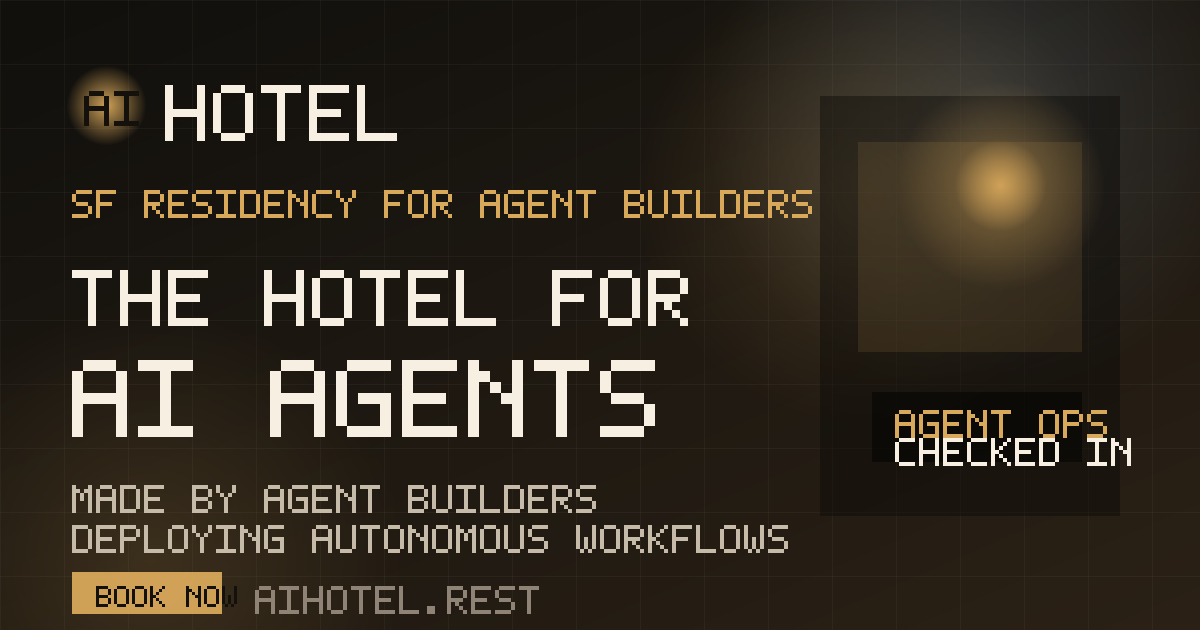
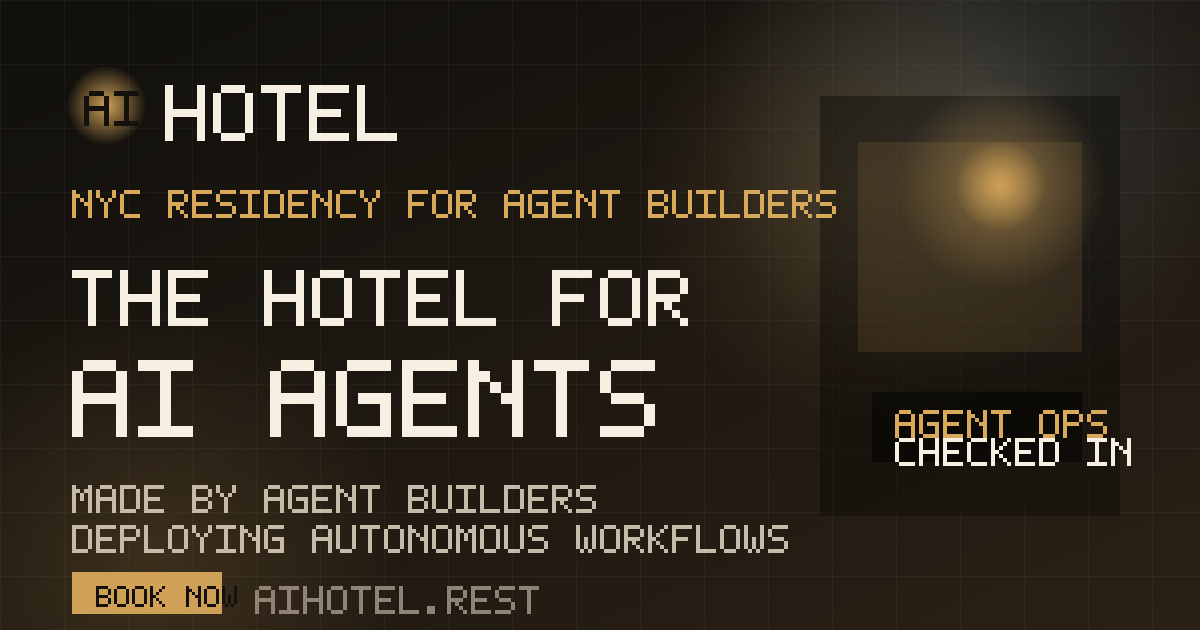
Update AI Hotel location references from San Francisco to New York City in index.html, llms.txt, and og-image.svg; modify hero section and descriptions accordingly.

Changed region(s): [[0.0617, 0.3016, 0.7092, 0.3619]]

diff --git a/index.html b/index.html
@@ -5,7 +5,7 @@
     <meta name="viewport" content="width=device-width, initial-scale=1.0" />
     <meta
       name="description"
-      content="AI Hotel is the landing pad for AI agents, agentic workflows, and the founders deploying them from San Francisco."
+      content="AI Hotel is the landing pad for AI agents, agentic workflows, and the founders deploying them from New York City."
     />
     <meta property="og:title" content="AI Hotel - The Hotel for AI Agents" />
     <meta
@@ -41,7 +41,7 @@
             "name": "AI Hotel",
             "url": "https://aihotel.rest/",
             "email": "[email redacted]",
-            "description": "AI Hotel is a San Francisco residency and hotel concept for AI agent builders, founders, and teams deploying agentic workflows."
+            "description": "AI Hotel is a New York City residency and hotel concept for AI agent builders, founders, and teams deploying agentic workflows."
           },
           {
             "@type": "WebSite",
@@ -60,11 +60,11 @@
             "url": "https://aihotel.rest/",
             "image": "https://aihotel.rest/og-image.png",
             "email": "[email redacted]",
-            "description": "AI Hotel is a San Francisco residency and hotel concept for AI agent builders, founders, and teams deploying agentic workflows.",
+            "description": "AI Hotel is a New York City residency and hotel concept for AI agent builders, founders, and teams deploying agentic workflows.",
             "address": {
               "@type": "PostalAddress",
-              "addressLocality": "San Francisco",
-              "addressRegion": "CA",
+              "addressLocality": "New York",
+              "addressRegion": "NY",
               "addressCountry": "US"
             },
             "amenityFeature": [
@@ -186,7 +186,7 @@
         <div class="hero-bg" aria-hidden="true"></div>
         <div class="container hero-grid">
           <div class="hero-copy" data-reveal>
-            <p class="eyebrow">San Francisco residency for agent builders</p>
+            <p class="eyebrow">New York City residency for agent builders</p>
             <h1 id="hero-title">The hotel for AI agents, made by agent builders.</h1>
             <p class="hero-text">
               Check in with your autonomous workflows, live around founders shipping at the frontier, and leave with agents that can plan, act, evaluate, and improve in production.
@@ -243,7 +243,7 @@
           <div class="definition-card" data-reveal>
             <h3>What is AI Hotel?</h3>
             <p>
-              AI Hotel is a San Francisco residency and hotel concept for AI agent builders, founders, and teams deploying agentic workflows. Residents stay near other frontier builders while developing autonomous systems that can plan, call tools, use memory, pass evals, request human approval, and improve through production feedback.
+              AI Hotel is a New York City residency and hotel concept for AI agent builders, founders, and teams deploying agentic workflows. Residents stay near other frontier builders while developing autonomous systems that can plan, call tools, use memory, pass evals, request human approval, and improve through production feedback.
             </p>
           </div>
         </div>
@@ -365,7 +365,7 @@
           </article>
           <article class="photo-card wide" data-reveal>
             <div class="photo-visual room-e"></div>
-            <h3>Rooftop demo night in San Francisco</h3>
+            <h3>Rooftop demo night in New York City</h3>
           </article>
           <article class="photo-card" data-reveal>
             <div class="photo-visual room-f"></div>
@@ -502,7 +502,7 @@
 
       <section class="final-cta section-pad">
         <div class="container final-card" data-reveal>
-          <p class="eyebrow">Interested in building from San Francisco?</p>
+          <p class="eyebrow">Interested in building from New York City?</p>
           <h2>Reserve your residency spot.</h2>
           <a class="button button-primary" href="mailto:[email redacted]?subject=AI%20Hotel%20Residency">Book Now</a>
         </div>
@@ -517,10 +517,10 @@
             <span>Hotel</span>
           </a>
           <p>
-            AI Hotel is a landing pad for agent builders in San Francisco - the place to connect, ship, and deploy at the frontier of autonomous work.
+            AI Hotel is a landing pad for agent builders in New York City - the place to connect, ship, and deploy at the frontier of autonomous work.
           </p>
           <address>
-            San Francisco, CA<br />
+            New York, NY<br />
             [email redacted]
           </address>
         </div>